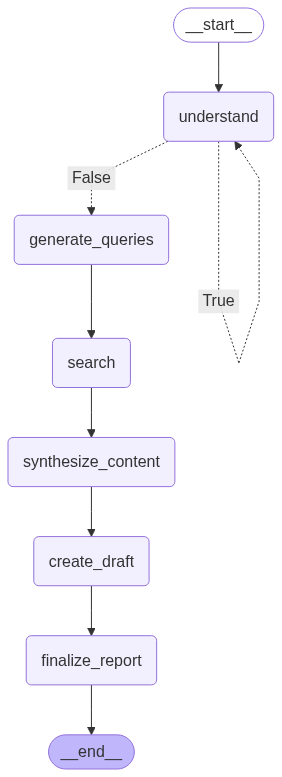
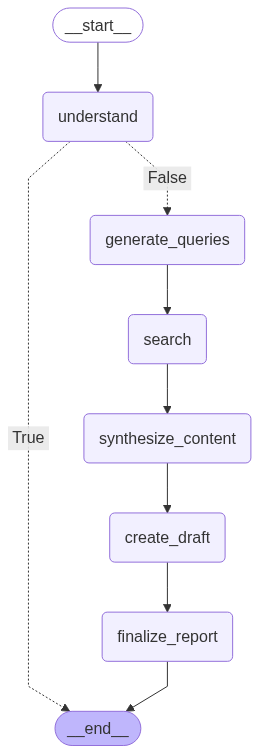
chore: cleaning & fixes

diff --git a/nodes.py b/nodes.py
@@ -1,12 +1,13 @@
 from langchain_core.messages import BaseMessage, HumanMessage, AIMessage
 from langgraph.graph import StateGraph, END
 from typing import TypedDict, List, Dict
-from prompts import CLARIFICATION_REQUIRED_PROMPT, SEARCH_QUERY_GENERATION_PROMPT, PAGE_CONTENT_SUMMARY_PROMPT
+from prompts import CLARIFICATION_REQUIRED_PROMPT, SEARCH_QUERY_GENERATION_PROMPT, PAGE_CONTENT_SUMMARY_PROMPT, DEEP_RESEARCH_REPORT_PROMPT
 from schema import ClarificationRequired, SearchQueries, ResearchState, PageSummary
 from langchain_community.utilities import SerpAPIWrapper
 from firecrawl import FirecrawlApp
 from langchain_openai import ChatOpenAI
 from dotenv import load_dotenv
+from helpers import clarification_context
 import os
 
 
@@ -17,8 +18,9 @@ os.environ["SERPAPI_API_KEY"] = os.getenv("SERPAPI_API_KEY")
 os.environ["FIRECRAWL_API_KEY"] = os.getenv("FIRECRAWL_API_KEY")
 
 
-openai_llm = ChatOpenAI(model="gpt-4o", temperature=0)
+openai_llm = ChatOpenAI(model="gpt-4.1", temperature=0)
 firecrawl_app = FirecrawlApp(api_key=os.getenv("FIRECRAWL_API_KEY"))
+openai_reasoning_llm = ChatOpenAI(model="o1")
 
 
 
@@ -28,8 +30,6 @@ def understand_query(state: ResearchState) -> ResearchState:
     """
     messages = state.get("messages", [])
     user_query = state.get("user_query")
-
-    return state
         
     return check_for_clarification(state)
 
@@ -48,9 +48,8 @@ def check_for_clarification(state: ResearchState) -> ResearchState:
     clarification_answers = state.get("clarification_answers", [])
 
     context = f"User's original research query: {user_query}\n"
-    if clarification_answers:
-        for i, (q, a) in enumerate(zip(clarification_questions, clarification_answers)):
-            context += f"Question {i+1}: {q}\nAnswer {i+1}: {a}\n"
+    if len(clarification_questions) > 0:
+        context += f"Follow up questions asked previously from the user: {clarification_context(clarification_questions, clarification_answers)}\n"
     
     analysis_prompt = CLARIFICATION_REQUIRED_PROMPT.format(context=context, num_questions=len(clarification_questions))
     openai_llm_structured = openai_llm.with_structured_output(ClarificationRequired)
@@ -80,15 +79,11 @@ def serp_queries(state: ResearchState) -> ResearchState:
     clarification_answers = state.get("clarification_answers", [])
     num_queries = state.get("breadth", 3)
 
-    context = "\n"
-    if clarification_answers:
-        for i, (q, a) in enumerate(zip(clarification_questions, clarification_answers)):
-            context += f"Question {i+1}: {q}\nAnswer {i+1}: {a}\n\n"
+    clarification = clarification_context(clarification_questions, clarification_answers)
 
-    search_query_prompt = SEARCH_QUERY_GENERATION_PROMPT.format(user_query=user_query, num_queries=num_queries, clarification_context=context)
+    search_query_prompt = SEARCH_QUERY_GENERATION_PROMPT.format(user_query=user_query, num_queries=num_queries, clarification_context=clarification)
     openai_llm_structured = openai_llm.with_structured_output(SearchQueries)
     response = openai_llm_structured.invoke(search_query_prompt)
-    print(f"Search queries: {response.search_queries}") 
     state["search_queries"] = response.search_queries or []
     return state
 
@@ -109,7 +104,6 @@ def search_results(state: ResearchState) -> ResearchState:
         else:
             query_map[query] = [search_result['link'] for search_result in search_results['organic_results']]
 
-    print(f"Query map: {query_map}")
     state["search_urls"] = query_map
 
     return state
@@ -118,26 +112,28 @@ def scrape_urls(state: ResearchState) -> ResearchState:
     """
     Scrape the content from the search results
     """
-    print(f"Scraping urls: {state.get('search_urls')}")
     search_urls = state.get("search_urls", {})
 
 
     for query, urls in search_urls.items():
         relevant_content = ""
         for url in urls:
+            print(f"Reading from url: {url}")
             try:
                 response = firecrawl_app.scrape_url(url, formats=["markdown", "html"])
 
             except Exception as e:
-                print(f"Error scraping url: {url}")
+
                 continue
+
+            context = clarification_context(state.get("clarification_questions", []), state.get("clarification_answers", []))
             
             page_summary_prompt = PAGE_CONTENT_SUMMARY_PROMPT.format(user_query=state.get("user_query"), 
-                                                                     clarification_context=state.get("clarification_context"), 
+                                                                     clarification_context=context, 
                                                                      page_content=response.markdown)
             openai_llm_structured = openai_llm.with_structured_output(PageSummary)
             response = openai_llm_structured.invoke(page_summary_prompt)
-            print(f"Response: {response}")
+
             content = f"""
             --------------------------------
             PAGE URL: {url}
@@ -145,7 +141,7 @@ def scrape_urls(state: ResearchState) -> ResearchState:
             --------------------------------
             """
             relevant_content += content
-        print(f"Relevant content: {relevant_content}")
+
         state["query_content"][query] = relevant_content
 
     return state
@@ -156,19 +152,26 @@ def draft_report(state: ResearchState) -> ResearchState:
     Generate a draft report based on the search results
     """
     query_content = state.get("query_content", {})
-    content = "Web Search Results:\n"
+    web_search_results = "Web Search Results:\n"
     for query, content in query_content.items():
         if content:
-            content += f"Query: {query}\n"
-            content += f"Content: {content}\n"
-            content += "--------------------------------\n"
+            web_search_results += f"Query: {query}\n"
+            web_search_results += f"Content: {content}\n"
+            web_search_results += "--------------------------------\n"
 
+    clarification = clarification_context(state.get("clarification_questions", []), state.get("clarification_answers", []))
+    deep_research_report_prompt = DEEP_RESEARCH_REPORT_PROMPT.format(search_results_content=web_search_results, user_query=state.get("user_query"), clarification_context=clarification)
+    response = openai_reasoning_llm.invoke(deep_research_report_prompt)
+    print(f"Deep Research Report generated")
+    state["draft_report"] = response.content
     return state
-
 
 def final_report(state: ResearchState) -> ResearchState:
     """
     Generate a final report based on the draft report
     """
-    
+    draft_report = state.get("draft_report", "")
+    with open("final_report.txt", "w") as f:
+        f.write(draft_report)
+    state["final_report"] = draft_report
     return state

diff --git a/prompts.py b/prompts.py
@@ -59,7 +59,7 @@ You need to keep in mind that summary should include details that are relevant t
 
 User's Research Query: {user_query}
 
-Follow up questions asked from the user:
+Follow up questions asked previously from the user:
 {clarification_context}
 
 Given the content of a web page, generate a very detailed summary of the relevant information.
@@ -70,4 +70,124 @@ Format your response in a JSON object with the following keys:
 {{
     "summary": "summary"
 }}
+"""
+
+DEEP_RESEARCH_REPORT_PROMPT = """You are an expert research analyst tasked with creating a comprehensive, deep research report based on web search results. Your report should be thorough, well-structured, and provide actionable insights.
+
+## Research Topic
+{user_query}
+
+## Clarification Context (if any)
+{clarification_context}
+
+## Search Results and Content
+{search_results_content}
+
+## Instructions
+
+Create a comprehensive research report following this structure:
+
+### 1. Executive Summary (200-300 words)
+- Provide a high-level overview of the key findings
+- Summarize the most important insights
+- Include the main conclusions and recommendations
+- This should be readable as a standalone section
+
+### 2. Introduction and Background
+- Define the research topic and its significance
+- Provide necessary context and background information
+- Explain why this topic is important/relevant
+- Outline the scope and objectives of this research
+
+### 3. Comprehensive Analysis
+Organize your findings into logical sections. For each major theme or aspect:
+- Use descriptive subheadings (### or ####)
+- Synthesize information from multiple sources
+- Compare and contrast different perspectives
+- Identify patterns, trends, and relationships
+- Include specific examples and evidence
+
+Consider covering aspects such as:
+- Technical/Conceptual Overview
+- Current State and Recent Developments
+- Key Players and Stakeholders
+- Applications and Use Cases
+- Benefits and Advantages
+- Challenges and Limitations
+- Industry Impact and Adoption
+- Future Outlook and Predictions
+
+### 4. Critical Evaluation
+- Analyze strengths and weaknesses
+- Identify gaps in current knowledge or implementation
+- Discuss controversies or debates
+- Evaluate the reliability and consensus of sources
+
+### 5. Implications and Recommendations
+- Discuss practical implications for different stakeholders
+- Provide actionable recommendations
+- Suggest areas for further research or development
+- Consider both short-term and long-term perspectives
+
+### 6. Conclusion
+- Summarize the key findings
+- Reinforce the most important insights
+- Provide a final perspective on the topic
+
+### 7. Sources and References
+- List all sources used in the research
+- Use proper citation format: [Source Title](URL)
+- Group sources by relevance or topic if appropriate
+
+## Formatting Requirements
+
+1. **Use Markdown formatting**:
+   - # for main title
+   - ## for major sections
+   - ### for subsections
+   - #### for sub-subsections
+   - **Bold** for emphasis on key terms
+   - *Italics* for definitions or quotes
+   - - or * for bullet points
+   - 1. for numbered lists
+   - > for important quotes or callouts
+   - `code formatting` for technical terms when appropriate
+   - --- for section breaks
+
+2. **Writing Style**:
+   - Professional and objective tone
+   - Clear and concise language
+   - Avoid jargon unless necessary (define when used)
+   - Use active voice when possible
+   - Ensure logical flow between sections
+   - Include transition sentences between major sections
+
+3. **Content Guidelines**:
+   - Cite sources inline when making specific claims: "According to [Source]..."
+   - Use data and statistics when available
+   - Include relevant quotes from authoritative sources
+   - Balance different viewpoints fairly
+   - Distinguish between facts and opinions
+   - Acknowledge limitations or uncertainties
+
+4. **Length and Depth**:
+   - Total report should be 1500-3000 words
+   - Each major section should be substantial (200-500 words)
+   - Provide enough detail to be useful for decision-making
+   - Don't pad with unnecessary information
+
+5. **Special Considerations**:
+   - If technical concepts are involved, explain them clearly
+   - If data or statistics are mentioned, contextualize them
+   - If conflicting information exists, acknowledge and analyze it
+   - If information gaps exist, explicitly note them
+
+Generate a comprehensive, well-researched report that would be suitable for:
+- Executive briefings
+- Strategic planning
+- Academic research
+- Industry analysis
+- Decision-making support
+
+Remember: The goal is to provide a deep, nuanced understanding of the topic that goes beyond surface-level information.
 """

diff --git a/run_agent.py b/run_agent.py
@@ -9,6 +9,12 @@ async def run_research():
     """
 
     initial_research_question = input("What would you like to research?\n")
+    breadth = int(input("How wide should the research be? (3-8)\n"))
+    depth = int(input("How narrow should the focus on topics be? (4-6)\n"))
+
+    breadth =  max(3, min(breadth, 8))
+    depth =  max(4, min(depth, 6))
+
 
     state = {
         "messages": [HumanMessage(content=initial_research_question)],
@@ -26,16 +32,12 @@ async def run_research():
     while not state.get("final_report"):
         state = await app.ainvoke(state)
 
-        if state.get("is_clarification_needed") and state.get("clarification_questions"):
+        if state.get("is_clarification_needed") and len(state.get("clarification_questions")) > len(state.get("clarification_answers")):
             question = state.get("clarification_questions")[-1]
             print(f"Follow Up Question: {question}")
             answer = input("Answer: ")
             state["clarification_answers"].append(answer)
         
-        break
-
-
-    print(f"Final Report: {state.get('final_report')}")
 
 if __name__ == "__main__":
     asyncio.run(run_research())

diff --git a/helpers.py b/helpers.py
@@ -1,0 +1,11 @@
+from typing import List
+
+
+def clarification_context(clarification_questions: List[str], clarification_answers: List[str]) -> str:
+    """
+    Generate a clarification context based on the clarification questions and answers
+    """
+    clarification_context = ""
+    for question, answer in zip(clarification_questions, clarification_answers):
+        clarification_context += f"Question: {question}\nAnswer: {answer}\n"
+    return clarification_context

diff --git a/schema.py b/schema.py
@@ -12,6 +12,8 @@ class SearchQueries(BaseModel):
 class ResearchState(TypedDict):
     messages: List[BaseMessage]
     user_query: str
+    breadth: int
+    depth: int
     clarification_questions: List[str]
     clarification_answers: List[str]
     search_queries: List[str]

diff --git a/graph.py b/graph.py
@@ -30,7 +30,7 @@ graph.add_conditional_edges(
     "understand",
     is_clarification_needed,
     {
-        True: "understand",
+        True: END,
         False: "generate_queries"
     }
 )
